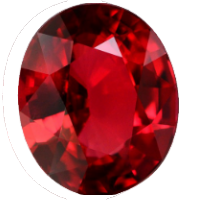
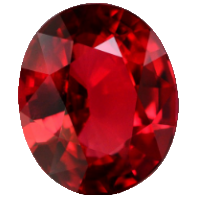
updated game with better random generator and better ruby image

diff --git a/assets/javascript/java.js b/assets/javascript/java.js
@@ -28,8 +28,50 @@ let birthstones = [
 ];
 let stoneArray = [];
 
+//FUNCTIONS
+$(document).ready(function () {
+    jRandom();
+    gRandom();
+
+});
+
+function jRandom() {
+    //create goal value for game
+    goal = Math.floor(Math.random() * 120 + 19);
+    //create the random values for the gems
+    for (let i = 0; i < 4; i++) {
+        let value = 0;
+        console.log(i);
+        randomValue();
+        function randomValue() {
+            value = Math.floor(Math.random() * birthstones.length);
+            console.log(value);
+            if (gemArray.includes(value)) {
+                randomValue();
+            } else {
+                console.log(value);
+                gemArray.push(value);            
+            }
+        }
+    }
+
+    //setting the gem values from array
+    gem1 = gemArray[0];
+    console.log("Gem Values: " + gemArray);
+    gem2 = gemArray[1];
+    gem3 = gemArray[2];
+    gem4 = gemArray[3];
+    //logging the numbers
+    logNumbers();
+    $('#gem1').val(gem1);
+    $('#gem2').attr("value", gem2);
+    $('#gem3').attr("value", gem3);
+    $('#gem4').attr("value", gem4);
+    $('#goal').html(goal);
+    console.log($('#gem1').val());
+}
 //Image Functions of Games
-//generate images of the buttons (AN: still needs work with the exclusion issue and repeats)
+//generate images of the buttons 
 function gRandom() {
     for (let g = 0; g < 4; g++) {
         let month = 0;
@@ -45,12 +87,6 @@ function gRandom() {
                 stoneArray.push(month);
             }
         }
-        // stoneArray.filter(function (month) {
-        //     if (stoneArray.indexOf(month)) {
-        //         stoneArray.push(month);
-        //         console.log(month);
-        //     }
-        // })
     }
     console.log("Stone Array: " + stoneArray);
     //setting gem images to buttons
@@ -60,12 +96,7 @@ function gRandom() {
     $("#gem4").css("background-image", "url(" + birthstones[stoneArray[3]] + ")");
 }
 
-//FUNCTIONS
-$(document).ready(function () {
-    jRandom();
-    gRandom();
 
-});
 
 //updating the guess array with new variable
 $('.button').on('click', function () {
@@ -86,51 +117,7 @@ function randomNum() {
     }
 }
 
-function jRandom() {
-    //create goal value for game
-    goal = Math.floor(Math.random() * 120 + 19);
-    //create the random values for the gems
-    for (let i = 0; i < 4; i++) {
-        let value = 0;
-        console.log(i);
-        randomValue();
-        function randomValue() {
-            value = Math.floor(Math.random() * birthstones.length);
-            console.log(value);
-            if (gemArray.includes(value)) {
-                randomValue();
-            } else {
-                console.log(value);
-                gemArray.push(value);
-                
-            }
-            // randomNum();
-            // if (gemArray.includes(value)) {
-            //     let value = Math.floor(Math.random() * 12 + 1);
-            // } else {
-            //     gemArray.push(value);
-            //     // console.log(value);
-            //     console.log(gemArray);
-            //     console.log("yep")
-            // }
-        }
-    }
 
-    //setting the gem values from array
-    gem1 = gemArray[0];
-    console.log("Gem Values: " + gemArray);
-    gem2 = gemArray[1];
-    gem3 = gemArray[2];
-    gem4 = gemArray[3];
-    //logging the numbers
-    logNumbers();
-    $('#gem1').val(gem1);
-    $('#gem2').attr("value", gem2);
-    $('#gem3').attr("value", gem3);
-    $('#gem4').attr("value", gem4);
-    $('#goal').html(goal);
-    console.log($('#gem1').val());
-}
 
 //creates a console.log to know gem values and win condition
 function logNumbers() {
@@ -159,6 +146,7 @@ function runGame() {
 function reset() {
     guess = 0;
     $('#guess').html(guess);
+    gemArray=[];
     jRandom();
     gRandom();
 }

diff --git a/assets/css/styles.css b/assets/css/styles.css
@@ -65,3 +65,14 @@ text-align: center;
     text-align:center;
     font-weight:bold;
 }
+
+@media(max-width:750px){
+    button{
+        width:100px;
+        height:100px;
+        background-size: contain;
+        background-color:transparent;
+        background-repeat: no-repeat;
+        z-index: 1;
+    }
+}
